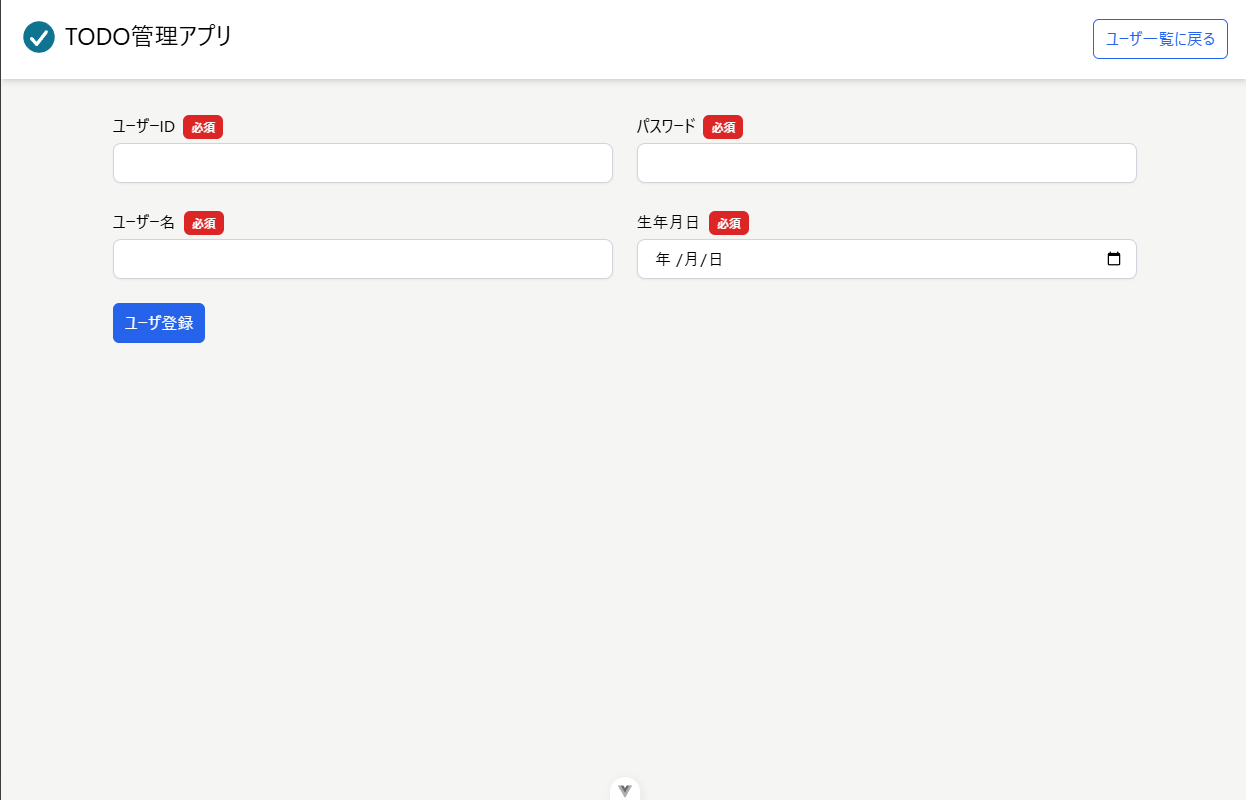
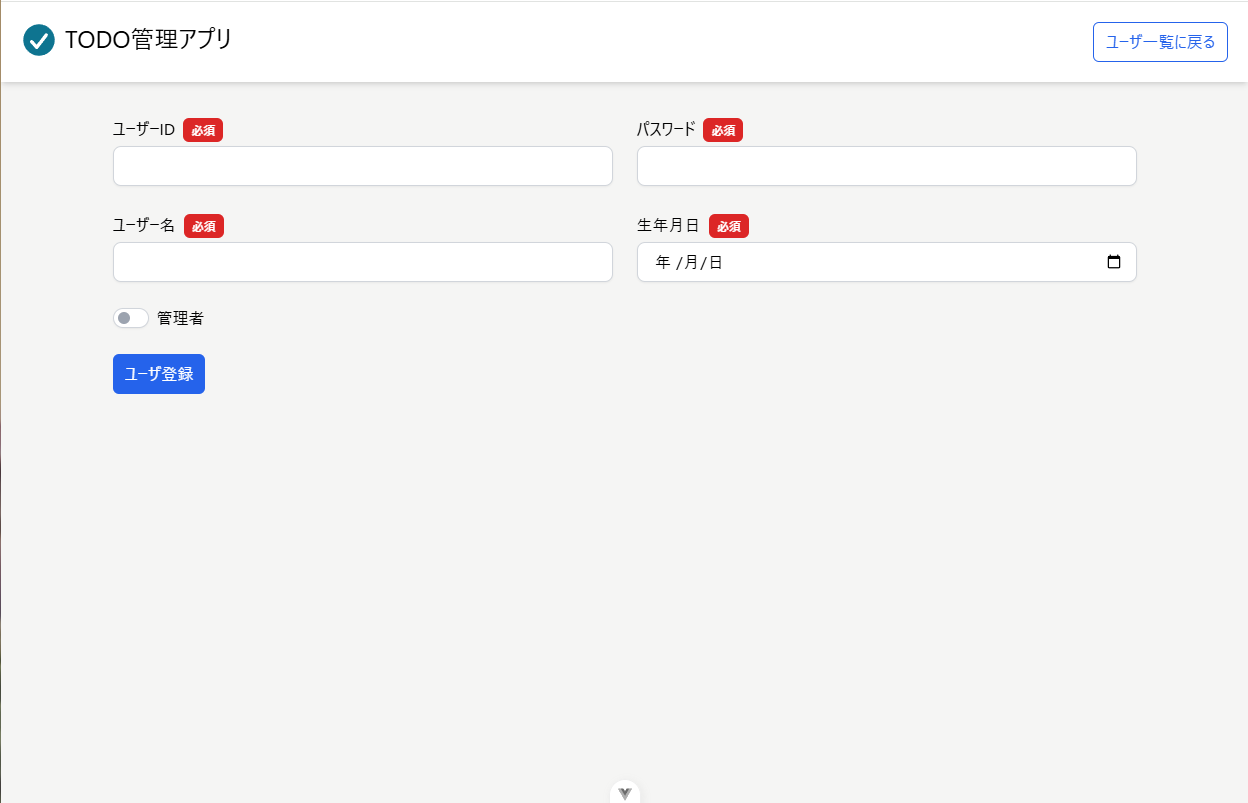
トグルスイッチの対応

diff --git a/src/views/UserDetailView.vue b/src/views/UserDetailView.vue
@@ -6,12 +6,14 @@ import InputItem from '@/components/form/InputItem.vue';
 import InputText from '@/components/form/InputText.vue';
 import InputPassword from '@/components/form/InputPassword.vue';
 import InputDate from '@/components/form/InputDate.vue';
+import ToggleSwitch from '@/components/form/ToggleSwitch.vue';
 import RequiredBadge from '@/icons/RequiredBadge.vue';
 import ButtonArea from '@/components/button/ButtonArea.vue';
 import LinkButton from '@/components/button/LinkButton.vue';
 import SubmitButton from '@/components/button/SubmitButton.vue';
 
 import { useRouter } from 'vue-router';
+import { ref } from 'vue';
 
 interface Props {
     id: string;
@@ -21,6 +23,9 @@ defineProps<Props>();
 const title = 'TODO管理アプリ';
 
 const router = useRouter();
+
+// TODO: 仮のバインド
+const isAdmin = ref(true);
 
 const onBackButtonClick = () => {
     router.push({ name: 'userList' });
@@ -65,6 +70,11 @@ const onSubmit = (): void => {
                 <!-- TODO: データバインド -->
                 <InputDate id="birthday" name="birthday" value="1990-01-01" />
             </InputItem>
+            <InputItem>
+                <!-- TODO: データバインド -->
+                <ToggleSwitch v-bind:enabled="isAdmin">管理者</ToggleSwitch>
+            </InputItem>
+            <InputItem></InputItem>
             <ButtonArea>
                 <SubmitButton>ユーザ更新</SubmitButton>
                 <SubmitButton v-bind:danger="true">ユーザ削除</SubmitButton>

diff --git a/src/views/UserRegisterView.vue b/src/views/UserRegisterView.vue
@@ -6,16 +6,21 @@ import InputItem from '@/components/form/InputItem.vue';
 import InputText from '@/components/form/InputText.vue';
 import InputPassword from '@/components/form/InputPassword.vue';
 import InputDate from '@/components/form/InputDate.vue';
+import ToggleSwitch from '@/components/form/ToggleSwitch.vue';
 import RequiredBadge from '@/icons/RequiredBadge.vue';
 import ButtonArea from '@/components/button/ButtonArea.vue';
 import LinkButton from '@/components/button/LinkButton.vue';
 import SubmitButton from '@/components/button/SubmitButton.vue';
 
 import { useRouter } from 'vue-router';
+import { ref } from 'vue';
 
 const title = 'TODO管理アプリ';
 
 const router = useRouter();
+
+// TODO: 仮のバインド
+const isAdmin = ref(false);
 
 const onBackButtonClick = () => {
     router.push({ name: 'userList' });
@@ -57,6 +62,10 @@ const onSubmit = (): void => {
                 </label>
                 <InputDate id="birthday" name="birthday" />
             </InputItem>
+            <InputItem>
+                <ToggleSwitch v-bind:enabled="isAdmin">管理者</ToggleSwitch>
+            </InputItem>
+            <InputItem></InputItem>
             <ButtonArea>
                 <SubmitButton>ユーザ登録</SubmitButton>
             </ButtonArea>

diff --git a/src/components/form/ToggleSwitch.vue b/src/components/form/ToggleSwitch.vue
@@ -1,0 +1,27 @@
+<script setup lang="ts">
+import { Switch, SwitchGroup, SwitchLabel } from '@headlessui/vue'
+import { ref } from 'vue';
+
+interface Props {
+    enabled: boolean
+}
+
+const props = defineProps<Props>()
+
+const switchOn = ref(props.enabled)
+
+</script>
+<template>
+    <SwitchGroup>
+        <div>
+            <Switch v-model="switchOn" :class="switchOn ? 'bg-blue-600' : 'bg-white border border-gray-300'"
+                class="group relative inline-flex h-5 w-9 mr-2 items-center rounded-full shadow-sm focus:border-blue-400 focus:ring focus:ring-blue-300/50">
+                <span v-bind:class="switchOn ? 'translate-x-5 bg-white' : 'translate-x-1 bg-gray-400'"
+                    class="inline-block h-3 w-3 transform rounded-full transition group-focus:bg-blue-400"></span>
+            </Switch>
+            <SwitchLabel>
+                <slot></slot>
+            </SwitchLabel>
+        </div>
+    </SwitchGroup>
+</template>

diff --git a/README.md b/README.md
@@ -61,6 +61,7 @@ npm run dev
 | パスワード入力 | パスワード入力部品 | [ソースコード](src/components/form/InputPassword.vue) |
 | パスワード入力（ログイン画面用） | ログイン画面のレイアウトに合わせたパスワード入力部品 | [ソースコード](src/components/form/LoginInputPassword.vue) |
 | 日付入力 | 日付入力部品 | [ソースコード](src/components/form/InputDate.vue) |
+| トグルスイッチ | トグルの入力部品　| [ソースコード](src/components/form/ToggleSwitch.vue) |
 | ファイル入力 | ファイルアップロード入力部品 | [ソースコード](src/components/form/InputFile.vue) |
 | ボタン領域 | ボタンを並べて表示する領域 | [ソースコード](src/components/button/ButtonArea.vue) |
 | メニューボタン | メニュー画面のレイアウトに合わせたリンクボタン | [ソースコード](src/components/button/MenuButton.vue) |
@@ -73,11 +74,12 @@ npm run dev
 - Vueライブラリ
     - [vue-router](https://router.vuejs.org/)
     - [pinia](https://pinia.vuejs.org/)        
-    - [@heroicons/vue](https://github.com/tailwindlabs/heroicons?tab=readme-ov-file#vue)
+    - [Headless UI](https://headlessui.com/v1/vue)
+    - [@heroicons/vue](https://github.com/tailwindlabs/heroicons?tab=readme-ov-file#vue)    
 
 - テストツール
     - [Vitest](https://vitest.dev/)
-    - [Cypress]()
+    - [Cypress](https://www.cypress.io/)
 
 - TailWind CSSプラグイン
     - [@tailwindcss/forms](https://www.cypress.io/)
